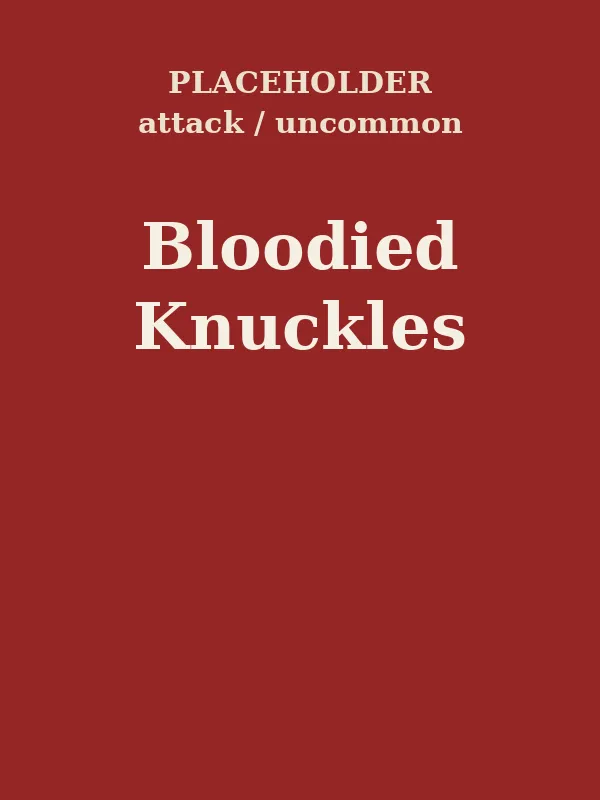
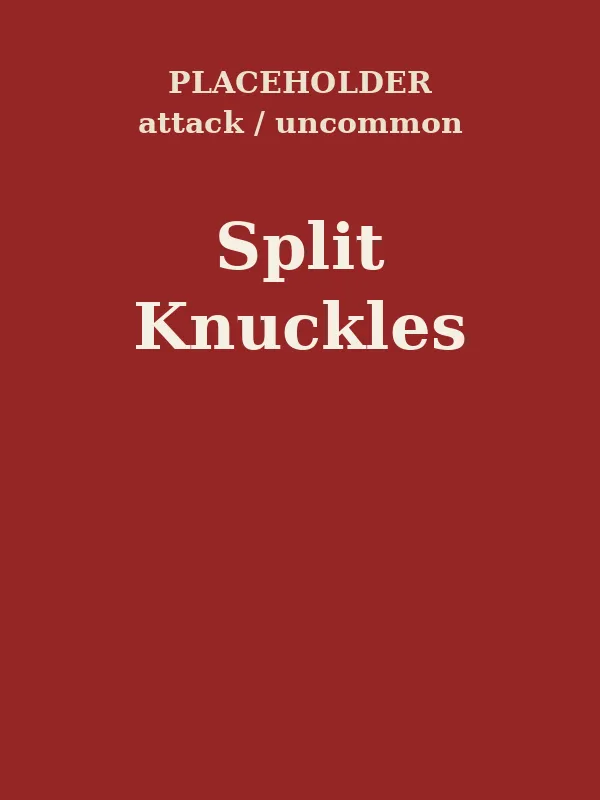
Burn It Down + Barbarian keyword cards, Producer 13:25 keyword rulings, Split Knuckles rename, How to Play tooltip checks fail loudly
- Producer 13:25 rulings in the engine (combos stay blocked in the data check, no card needs them yet): Replay on a Fading
  card at 1 plays both (second at 0) then Exhausts; Bloodied effects go with every Repeat and Replay play, HP checked once
  when played; Last Word with Repeat X fires once
- Lorekeeper 13:25: bloodied_knuckles shows as 'Split Knuckles' (id kept, placeholder redrawn); Blood in the Mouth when
  Bloodied is one 14-damage hit (Bloodied addTo joins the hit, Might counts once), text unchanged
- Burn It Down (keyword_use_v2 part 2): Burn Through, Kindling (Power: Exhaust -> 1 Rage), What's Left (one hit of 3 per
  card Exhausted this fight), Ash-Caked Bracer (Barbarian-only relic: first Exhaust each turn draws 1; hero-only relic pools)
- Keyword cards (part 3): Worn Grip (Fading), Ember Hide (Exhaust + Last Word), Blood in the Mouth, Last One Standing (Bloodied)
- engine: exhaustCard counts p.fightExhausted, fires Kindling, Bracer, Last Word; damagePerExhausted; damageRandom (random
  targetable enemy, for Parting Shot's Last Word)
- placeholders for the 7 new cards (tools/make_placeholders.py now takes card ids and leaves other files alone)
- test/keywords.js 225 -> 947 checks; How to Play tooltip checks FAIL if lore/text/how_to_play_v1.md is missing
- NOT BUILT (needs fighter-styles-r2 / wz9 on main first): The Long Wait, First Strike, Parting Shot, Echo Chamber, Guttering Candle
[…]

Changed region(s): [[0.24, 0.25, 0.78, 0.375]]

diff --git a/test/keywords.js b/test/keywords.js
@@ -148,7 +148,8 @@ const TIPS = {   // lore/text/how_to_play_v1.md section 3 (Lorekeeper), word for
 };
 for (const k in TIPS) eq(D.KEYWORDS[k], TIPS[k], k + ' tooltip wording');
 { const htp = path.join(__dirname, '../lore/text/how_to_play_v1.md');
-  if (fs.existsSync(htp)) { const t = fs.readFileSync(htp, 'utf8');
+  ok(fs.existsSync(htp), 'lore/text/how_to_play_v1.md is present (untracked, Lorekeeper owns lore/; copy lore/ into a scratch checkout before npm test)');
+  { const t = fs.readFileSync(htp, 'utf8');
     for (const k in TIPS) { const m = t.match(new RegExp('^- \\*\\*' + (k === 'Repeat' ? 'Repeat X' : k) + ':\\*\\* (.*)$', 'm')); ok(m && TIPS[k] === (k === 'Repeat' ? 'Repeat X' : k) + ': ' + m[1], k + ' tooltip matches how_to_play_v1.md'); } } }
 
 // ======== Fading, Last Word, Bloodied (Anna 11:54/12:19; how_to_play_v1 section 3; keyword_use_v2 part 3; Producer 11:56) ========
@@ -233,7 +234,95 @@ const TIPS2 = { Fading: "Fading: each time you play it this fight, its numbers d
   'Last Word': 'Last Word: when this card Exhausts or Vanishes, its Last Word line happens.', Bloodied: "Bloodied: the Bloodied line only counts while you're at half your HP or less." };
 for (const k in TIPS2) eq(D.KEYWORDS[k], TIPS2[k], k + ' tooltip wording');
 { const htp = path.join(__dirname, '../lore/text/how_to_play_v1.md');
-  if (fs.existsSync(htp)) { const t = fs.readFileSync(htp, 'utf8'); for (const k in TIPS2) { const m = t.match(new RegExp('^- \\*\\*' + k + ':\\*\\* (.*)$', 'm')); ok(m && TIPS2[k] === k + ': ' + m[1], k + ' tooltip matches how_to_play_v1.md'); } } }
+  ok(fs.existsSync(htp), 'lore/text/how_to_play_v1.md is present (untracked, Lorekeeper owns lore/)');
+  { const t = fs.readFileSync(htp, 'utf8'); for (const k in TIPS2) { const m = t.match(new RegExp('^- \\*\\*' + k + ':\\*\\* (.*)$', 'm')); ok(m && TIPS2[k] === k + ': ' + m[1], k + ' tooltip matches how_to_play_v1.md'); } } }
+
+// ======== Producer 13:25 rulings (engine behaviour; the combos stay blocked in the data check until a card needs them) ========
+// These test-only defs are added AFTER every checkKeywordData(D.CARDS) call above, on purpose.
+Object.assign(D.CARDS, {
+  kwr_fade_replay: atk({ fading: true, replay: true, effects: [{ t: 'damage', n: 3 }] }),
+  kwr_blood_rep2: atk({ repeat: 2, bloodied: { desc: 'Deal {0} more.', effects: [{ t: 'damage', n: 5 }] } }),
+  kwr_blood_replay: atk({ replay: true, bloodied: { desc: 'Deal {0} more.', effects: [{ t: 'damage', n: 7, addTo: 0 }] } }),
+  kwr_blood_lose: blk({ replay: true, desc: 'Lose {0} HP. Gain {1} Block.', effects: [{ t: 'loseHp', n: 10 }, { t: 'block', n: 1 }], bloodied: { desc: 'Gain {0} Block.', effects: [{ t: 'block', n: 5 }] } }),
+  kwr_lw_rep3: blk({ exhaust: true, repeat: 3, desc: 'Gain {0} Block. Exhaust.', lastWord: { desc: 'Gain {0} Might.', effects: [might1] } }),
+});
+for (const id of ['kwr_fade_replay', 'kwr_blood_rep2', 'kwr_blood_replay', 'kwr_lw_rep3']) ok(throws(() => D.checkKeywordData({ [id]: D.CARDS[id] })), id + ' is still blocked in the data check (no card needs it yet)');
+// (1) Replay on a Fading card at 1: plays both (second at 0), then Exhausts
+{ const { s, p } = fresh(), e = s.enemies[0], c = give(p, 'kwr_fade_replay'); c.fightPlays = 2; const h = e.hp; const { ev } = play(s, p, c, e);
+  eq(h - e.hp, 1 + 0, 'Fading at 1 + Replay: 1 damage, then a second play at 0'); eq(ev.filter(x => x.kind === 'cardReplayed').length, 1, 'the Replay still happens at 0');
+  eq(where(p, c), ['exhaust'], 'then it Exhausts'); eq(c.fightPlays, 4, 'two plays counted'); }
+{ const { s, p } = fresh(), e = s.enemies[0], c = give(p, 'kwr_fade_replay'); p.statuses.might = 2; c.fightPlays = 2; const h = e.hp; play(s, p, c, e);
+  eq(h - e.hp, (1 + 2) + (0 + 2), 'the Replay at 0 still adds Might (a real play)'); }
+{ const { s, p } = fresh(), e = s.enemies[0], c = give(p, 'kwr_fade_replay'); const h = e.hp; play(s, p, c, e); eq(h - e.hp, 3 + 2, 'Fading 3 + Replay: 3 then 2 (drops by 2)'); eq(where(p, c), ['discard'], 'still above 0: discarded'); }
+// (2) Bloodied effects go with every Repeat and Replay play; HP checked once when played
+{ const { s, p } = fresh(), e = s.enemies[0]; p.hp = Math.floor(p.maxHp / 2); const c = give(p, 'kwr_blood_rep2'), h = e.hp; const { ev } = play(s, p, c, e);
+  eq(h - e.hp, (4 + 5) * 2, 'Bloodied + Repeat 2: the Bloodied hit goes with both repeats'); eq(ev.filter(x => x.kind === 'bloodied').length, 1, 'one Bloodied check'); }
+{ const { s, p } = fresh(), e = s.enemies[0]; p.hp = Math.floor(p.maxHp / 2); p.statuses.might = 1; const c = give(p, 'kwr_blood_replay'); play(s, p, c, e);
+  eq(e.maxHp - e.hp, (4 + 7 + 1) * 2, 'Bloodied (addTo) + Replay: one 11+Might hit on each play'); }
+{ const { s, p } = fresh(); p.maxHp = 80; p.hp = 45; const c = give(p, 'kwr_blood_lose'); play(s, p, c, null); eq([p.hp, p.block], [25, 2], 'not Bloodied when played: the Replay does not re-check after the first play took HP'); }
+{ const { s, p } = fresh(); p.maxHp = 80; p.hp = 38; const c = give(p, 'kwr_blood_lose'); play(s, p, c, null); eq(p.block, (1 + 5) * 2, 'Bloodied when played: the extra Block goes with both plays'); }
+{ const { s, p } = fresh(), e = s.enemies[0]; p.hp = p.maxHp; const c = give(p, 'kwr_blood_rep2'), h = e.hp; play(s, p, c, e); eq(h - e.hp, 4 * 2, 'not Bloodied: Repeat only'); }
+// (3) Last Word with Repeat X fires once
+{ const { s, p } = fresh(), c = give(p, 'kwr_lw_rep3'); const { ev } = play(s, p, c, null); eq([p.block, p.statuses.might], [15, 1], 'Repeat 3 Block, Last Word once'); eq(ev.filter(x => x.kind === 'lastWord').length, 1, 'one lastWord event'); }
+
+// ======== Lorekeeper 13:25 + Burn It Down + new keyword cards (Barbarian) ========
+eq(D.CARDS.bloodied_knuckles.name, 'Split Knuckles', 'Bloodied Knuckles is shown as Split Knuckles (id unchanged)');
+ok(!Object.values(D.CARDS).some(c => /\bBloodied\b/.test(c.name)), 'no card name uses the Bloodied keyword word');
+const NEW = ['burn_through', 'kindling', 'whats_left', 'worn_grip', 'ember_hide', 'blood_in_mouth', 'last_one_standing'];
+for (const id of NEW) { const c = D.CARDS[id]; ok(c && c.cls === 'barbarian', id + ' is a Barbarian card'); ok(fs.existsSync(path.join(__dirname, '../assets/placeholder/placeholder_' + id + '.webp')), id + ' has placeholder art');
+  ok(fs.readFileSync(path.join(__dirname, '../assets/placeholder/PLACEHOLDERS.md'), 'utf8').includes('`placeholder_' + id + '.webp`'), id + ' is listed in PLACEHOLDERS.md'); }
+eq(NEW.map(id => [D.CARDS[id].cost, D.CARDS[id].rarity, D.typeWord(D.CARDS[id], id)]), [[1, 'common', 'Defense'], [1, 'uncommon', 'Power'], [2, 'uncommon', 'Attack'], [1, 'common', 'Attack'], [1, 'common', 'Defense'], [1, 'common', 'Attack'], [1, 'uncommon', 'Buff']], 'costs, rarities and type words as in keyword_use_v2');
+// Blood in the Mouth: Bloodied = ONE 14-damage hit, Might counts once
+{ const { s, p } = fresh(), e = s.enemies[0]; p.hp = Math.floor(p.maxHp / 2); p.statuses.might = 3; const c = give(p, 'blood_in_mouth'); const { ev } = play(s, p, c, e);
+  eq(e.maxHp - e.hp, 14 + 3, 'Bloodied Blood in the Mouth: 14 + Might once'); eq(ev.filter(x => x.kind === 'hit').map(x => x.amount), [17], 'ONE hit of 17'); }
+{ const { s, p } = fresh(), e = s.enemies[0]; e.statuses.prone = 2; p.hp = 10; const c = give(p, 'blood_in_mouth'); play(s, p, c, e); eq(e.maxHp - e.hp, Math.floor(14 * 1.5), 'one hit: Prone applies to 14 once (21)'); }
+{ const { s, p } = fresh(), e = s.enemies[0]; const c = give(p, 'blood_in_mouth'); play(s, p, c, e); eq(e.maxHp - e.hp, 7, 'not Bloodied: 7'); }
+{ const { s, p } = fresh(), e = s.enemies[0]; p.hp = 10; const c = give(p, 'blood_in_mouth', true); play(s, p, c, e); eq(e.maxHp - e.hp, 10 + 7, 'upgraded: 10 + 7 in one hit'); }
+eq([E.cardText(null, null, { id: 'blood_in_mouth' }), E.cardLines(null, null, { id: 'blood_in_mouth' }).bloodied], ['Deal 7 damage.', 'Deal 7 more.'], "card text stays 'Deal 7 damage.' / 'Bloodied: Deal 7 more.'");
+{ const { s, p } = fresh(), e = s.enemies[0]; p.statuses.might = 2; eq(E.cardLines(s, p, { id: 'blood_in_mouth', uid: 'b' }, e.uid).bloodied, 'Deal 7 more.', 'the Bloodied 7 is not shown with Might added (Might counts once)'); }
+// Last One Standing
+{ const { s, p } = fresh(); p.hp = 10; const before = p.hand.length; const c = give(p, 'last_one_standing'); play(s, p, c, null); eq([p.statuses.might, p.hand.length], [4, before + 1], 'Bloodied Last One Standing: 4 Might, draw 1'); }
+{ const { s, p } = fresh(); const c = give(p, 'last_one_standing'); play(s, p, c, null); eq(p.statuses.might, 2, 'not Bloodied: 2 Might'); }
+// Worn Grip: 8, 7, 6 ... then Exhausts at 0
+{ const { s, p } = fresh(), e = s.enemies[0], c = give(p, 'worn_grip'), hits = []; for (let i = 0; i < 8; i++) { if (i) p.hand.push(p.discard.splice(p.discard.indexOf(c), 1)[0]); const h = e.hp; play(s, p, c, e); hits.push(h - e.hp); }
+  eq(hits, [8, 7, 6, 5, 4, 3, 2, 1], 'Worn Grip fades 8..1'); eq(where(p, c), ['exhaust'], 'then Exhausts'); }
+// Ember Hide, Burn Through
+{ const { s, p } = fresh(), c = give(p, 'ember_hide'); play(s, p, c, null); eq([p.block, p.statuses.rage, where(p, c)[0]], [5, 2, 'exhaust'], 'Ember Hide: 5 Block, Exhaust, Last Word 2 Rage'); }
+{ const { s, p } = fresh(), c = give(p, 'burn_through'); play(s, p, c, null); eq([p.block, where(p, c)[0], p.fightExhausted], [6, 'exhaust', 1], 'Burn Through: 6 Block, Exhaust, counted'); }
+// Kindling: every Exhaust gives 1 Rage per copy; not on Vanish; Fading-out and Last Word cards count
+{ const { s, p } = fresh(), k = give(p, 'kindling'); play(s, p, k, null); ok(p.powers.includes(k), 'Kindling stays in play');
+  play(s, p, give(p, 'burn_through'), null); eq(p.statuses.rage, 1, 'Kindling: an Exhaust gives 1 Rage');
+  play(s, p, give(p, 'ember_hide'), null); eq(p.statuses.rage, 1 + 1 + 2, 'Kindling + Ember Hide Last Word: 1 + 2 Rage');
+  const w = give(p, 'worn_grip'); w.fightPlays = 7; play(s, p, w, s.enemies[0]); eq(p.statuses.rage, 5, 'a Fading card at 0 Exhausts and triggers Kindling');
+  play(s, p, give(p, 'kindling'), null); play(s, p, give(p, 'burn_through'), null); eq(p.statuses.rage, 7, 'two Kindlings: 2 Rage per Exhaust');
+  const r0 = p.statuses.rage; give(p, 'kw_van'); E.dispatch(s, { type: 'END_TURN', player: p.uid }); E.takeEvents(s); ok(p.exhaust.some(x => x.id === 'kw_van'), 'a card vanished');
+  ok((p.statuses.rage || 0) <= r0, 'Vanish is not an Exhaust: no Kindling Rage'); eq(p.fightExhausted, 4, 'Vanish not counted as Exhausted'); }
+{ const { s, p } = fresh(); play(s, p, give(p, 'burn_through'), null); eq(p.statuses.rage || 0, 0, 'no Kindling, no Rage'); }
+// What's Left: one hit of 3 per card Exhausted this fight
+{ const { s, p } = fresh(), e = s.enemies[0]; let h = e.hp; play(s, p, give(p, 'whats_left'), e); eq(h - e.hp, 0, "What's Left with nothing Exhausted: 0");
+  for (let i = 0; i < 3; i++) play(s, p, give(p, 'burn_through'), null); p.statuses.might = 2; h = e.hp; play(s, p, give(p, 'whats_left'), e); eq(h - e.hp, 9 + 2, "What's Left after 3 Exhausts: one 9 hit + Might once");
+  E.startEncounter(s, 'lone_goblin'); E.takeEvents(s); eq(p.fightExhausted, 0, 'the count resets each fight'); }
+{ const { s, p } = fresh(), e = s.enemies[0]; play(s, p, give(p, 'burn_through'), null); const h = e.hp; play(s, p, give(p, 'whats_left', true), e); eq([h - e.hp, E.cardDef({ id: 'whats_left', up: true }).cost], [3, 1], "What's Left+: costs 1 (normal upgrade)"); }
+{ const { s, p } = fresh(); play(s, p, give(p, 'burn_through'), null); play(s, p, give(p, 'burn_through'), null); const s2 = JSON.parse(JSON.stringify(s)); eq(s2.players[0].fightExhausted, 2, 'Exhausted count survives a save'); }
+// Ash-Caked Bracer: first Exhaust each turn draws 1; Barbarian-only in every relic pool
+{ const { s, p } = fresh(); p.relics.push('ash_bracer'); p.draw.push({ uid: 'd1', id: 'strike' }, { uid: 'd2', id: 'strike' }, { uid: 'd3', id: 'strike' }); const n0 = p.hand.length;
+  play(s, p, give(p, 'burn_through'), null); eq(p.hand.length, n0 + 1 - 0, 'Bracer: first Exhaust draws 1'); play(s, p, give(p, 'burn_through'), null); eq(p.hand.length, n0 + 1, 'second Exhaust this turn draws nothing');
+  E.dispatch(s, { type: 'END_TURN', player: p.uid }); E.takeEvents(s); if (s.phase === 'combat') { p.energy = 99; const n1 = p.hand.length; play(s, p, give(p, 'burn_through'), null); eq(p.hand.length, n1 + 1, 'next turn the first Exhaust draws again'); } }
+eq(D.RELICS.ash_bracer.cls, 'barbarian', 'Ash-Caked Bracer is Barbarian-only');
+{ const pools = {}; for (const hero of Object.keys(D.HEROES)) { pools[hero] = 0;
+    for (let seed = 1; seed <= 200; seed++) { const s = E.newGame({ seed, heroes: [hero] }), p = s.players[0]; p.gold = 999; const f = findChoice(o => o.shop); runEvent(s, f); if (s.phase === 'event') E.dispatch(s, { type: 'EVENT_CONTINUE', player: p.uid }); if (s.shop.relics.some(x => x.id === 'ash_bracer')) pools[hero]++; } }
+  ok(pools.barbarian > 0, 'the Barbarian shop offers the Bracer sometimes (' + pools.barbarian + '/200)'); ok(pools.fighter === 0 && pools.wizard === 0, 'Fighter and Wizard shops never offer it ' + JSON.stringify(pools)); }
+{ const got = {}; for (const hero of Object.keys(D.HEROES)) { got[hero] = 0; for (let seed = 1; seed <= 200; seed++) { const s = E.newGame({ seed, heroes: [hero] }), p = s.players[0];
+    p.relics = Object.keys(D.RELICS).filter(r => r !== 'ash_bracer' && !D.RELICS[r].special && r !== Object.keys(D.RELICS).filter(x => !D.RELICS[x].special && !D.RELICS[x].cls)[seed % 3]);
+    E.startEncounter(s, 'lone_goblin'); E.takeEvents(s); s.node = 'elite'; s.enemies.forEach(e => { e.hp = 0; }); E.dispatch(s, { type: 'END_TURN', player: p.uid }); E.takeEvents(s); if (p.relics.includes('ash_bracer')) got[hero]++; } }
+  ok(got.barbarian > 0 && got.fighter === 0 && got.wizard === 0, 'elite relic rewards: Bracer only for the Barbarian ' + JSON.stringify(got)); }
+// damageRandom (for Parting Shot's Last Word): one hit on a random targetable enemy, no target on the card
+Object.assign(D.CARDS, { kwr_parting: blk({ cls: 'fighter', vanish: true, desc: 'Gain {0} Block.', effects: [{ t: 'block', n: 3 }], lastWord: { desc: 'Deal {0} damage to a random enemy.', effects: [{ t: 'damageRandom', n: 8 }] } }) });
+ok(D.checkKeywordData({ kwr_parting: D.CARDS.kwr_parting }) === true, 'a Last Word with damageRandom passes the data check');
+{ const tally = {}; for (let seed = 1; seed <= 40; seed++) { const { s, p } = fight('goblin_pack', seed); p.hp = p.maxHp; give(p, 'kwr_parting'); const hp0 = s.enemies.map(e => e.hp); E.dispatch(s, { type: 'END_TURN', player: p.uid }); E.takeEvents(s);
+    const hit = s.enemies.map((e, i) => hp0[i] - e.hp); const k = hit.findIndex(x => x >= 8); ok(hit.filter(x => x >= 8).length === 1 || s.phase !== 'combat', 'exactly one enemy takes the 8 (seed ' + seed + ')'); tally[k] = (tally[k] || 0) + 1; }
+  ok(Object.keys(tally).length >= 2, 'the target is random across seeds ' + JSON.stringify(tally)); }
+{ const { s, p } = fresh(); p.statuses.might = 2; eq(E.cardLines(s, p, { id: 'kwr_parting', uid: 'pp' }).lastWord, 'Deal «+10» damage to a random enemy.', 'damageRandom line shows live Might'); }
 
 // ---- page: keyword lines with tooltips on the card face, removal grids skip Eternal ----
 (async () => {

diff --git a/src/engine.js b/src/engine.js
@@ -114,6 +114,8 @@
   function emit(s, ev) { s.events.push(ev); }
   function log(s, msg) { s.log.push(msg); if (s.log.length > 60) s.log.shift(); }
   const hasRelic = (p, id) => p.relics.includes(id);
+  // Random relic pools (rewards, events, shop): no special relics, and a hero-only relic (cls) only for its hero.
+  const relicInPool = (p, r) => !D.RELICS[r].special && (!D.RELICS[r].cls || (p && D.RELICS[r].cls === p.heroId));
 
   // ---------- creation ----------
   function makePlayer(s, heroId, name) {
@@ -318,7 +320,7 @@
     if (o.maxHp) { sh.maxHp += o.maxHp; sh.hp += o.maxHp; add((o.maxHp > 0 ? '+' : '') + o.maxHp + ' max HP', o.maxHp < 0); }
     if (o.healPct) { const a = Math.max(0, Math.min(Math.round(sh.maxHp * o.healPct), sh.maxHp - sh.hp)); sh.hp += a; add('Heal ' + pctStr(o.healPct) + ' of max HP (+' + a + ' now)'); }
     if (o.relic) {
-      const left = Object.keys(D.RELICS).filter(r => !hasRelic(p, r) && !D.RELICS[r].special).length;
+      const left = Object.keys(D.RELICS).filter(r => !hasRelic(p, r) && relicInPool(p, r)).length;
       if (o.relic !== 'random' && !hasRelic(p, o.relic)) add('Relic: ' + D.RELICS[o.relic].name);
       else if (left) add('Random relic (1 of ' + left + (o.relic !== 'random' ? ', you already own ' + D.RELICS[o.relic].name : '') + ')');
       else add('+40 gold (no relics left)');
@@ -410,7 +412,7 @@
     }
     const relics = [];
     for (let i = 0; i < 3; i++) {
-      const left = Object.keys(D.RELICS).filter(r => !D.RELICS[r].special && !hasRelic(p, r) && !relics.some(x => x.id === r));
+      const left = Object.keys(D.RELICS).filter(r => relicInPool(p, r) && !hasRelic(p, r) && !relics.some(x => x.id === r));
       if (left.length) relics.push({ id: pick(s, left), price: price(P.relic), sold: false });
     }
     const potions = [];
@@ -462,7 +464,7 @@
 
   // ---------- relics ----------
   function randomRelic(s, p) {
-    const left = Object.keys(D.RELICS).filter(r => !hasRelic(p, r) && !D.RELICS[r].special);
+    const left = Object.keys(D.RELICS).filter(r => !hasRelic(p, r) && relicInPool(p, r));
     return left.length ? pick(s, left) : null;
   }
   function gainRelic(s, p, id) {
@@ -484,7 +486,7 @@
     s.enemies = enc.enemies.map(id => makeEnemy(s, id));
     for (const p of livingPlayers(s)) {
       p.draw = shuffle(s, p.deck.map(c => ({ ...c })));
-      p.hand = []; p.discard = []; p.exhaust = []; p.powers = []; p.block = 0; p.statuses = {}; p.fresh = {}; p.reward = null; p.turnFx = {}; p.enemyTurnFx = {};
+      p.hand = []; p.discard = []; p.exhaust = []; p.powers = []; p.fightExhausted = 0; p.block = 0; p.statuses = {}; p.fresh = {}; p.reward = null; p.turnFx = {}; p.enemyTurnFx = {};
     }
     log(s, `— ${enc.name} —`);
     emit(s, { kind: 'encounter', name: enc.name });
@@ -827,6 +829,10 @@
         case 'damageAll': for (let i = 0; i < times; i++) livingEnemies(s).forEach(e => dealDamage(s, e, attackDamage(p, e, attackBase(p, fx)), p, true)); break;
         case 'damageAllRaw': livingEnemies(s).forEach(e => dealDamage(s, e, fx.n, null, false)); break;
         case 'damageFromBlock': if (alive(tgt)) dealDamage(s, tgt, attackDamage(p, tgt, p.block), p, true); break;
+        // What's Left: one hit of n for each card Exhausted this fight ("X times" is the multi-hit wording, Producer 11:35)
+        case 'damagePerExhausted': if (alive(tgt)) dealDamage(s, tgt, attackDamage(p, tgt, attackBase(p, { ...fx, n: fx.n * (p.fightExhausted || 0) })), p, true); break;
+        // Parting Shot's Last Word: one attack hit on a random enemy that can be targeted (no target needed on the card)
+        case 'damageRandom': for (let i = 0; i < times; i++) { const l = targetableEnemies(s); if (!l.length) break; const e = pick(s, l); dealDamage(s, e, attackDamage(p, e, attackBase(p, fx)), p, true); } break;
         case 'block': gainBlock(s, p, fx.n); blockSoFar += fx.n; break;
         case 'heal': heal(s, p, fx.n); break;
         case 'maxHp': p.maxHp += fx.n; heal(s, p, fx.n); break;
@@ -872,7 +878,8 @@
     // Replay = a second play (Fading hook: notePlay runs once per play); Repeat X = the effect X times inside ONE play.
     // Replay on an Exhaust/Vanish card plays both times, then the card leaves once (Producer 11:34).
     const plays = playsOf(def), reps = repeatOf(def);
-    const bloodied = !!def.bloodied && isBloodied(p);   // checked when the card is played (before its effects)
+    const bloodied = !!def.bloodied && isBloodied(p);   // checked ONCE, when the card is played (before its effects)
+    if (bloodied) emit(s, { kind: 'bloodied', source: p.uid, card: c.id });
     for (let k = 0; k < plays; k++) {
       if (k > 0) {
         if (!alive(p) || !livingEnemies(s).length) break;
@@ -880,8 +887,10 @@
         emit(s, { kind: 'cardReplayed', source: p.uid, card: c.id, target: tgt && tgt.uid });
         log(s, `${def.name} plays again (Replay).`);
       }
-      for (let r = 0; r < reps; r++) runEffects(s, p, fadeFx(def, c, def.effects), tgt, c);   // Fading: this play uses the number left
-      if (bloodied) { emit(s, { kind: 'bloodied', source: p.uid, card: c.id }); runEffects(s, p, def.bloodied.effects, tgt, c); }
+      // Fading: this play uses the number left (a Replay at 1 plays its second time at 0, then Exhausts; Producer 13:25).
+      // Bloodied effects go with every Repeat and Replay play (Producer 13:25); one with addTo joins that effect's hit
+      // instead of adding a hit (Blood in the Mouth: one 14-damage hit, Might counts once; Lorekeeper 13:25).
+      for (let r = 0; r < reps; r++) runEffects(s, p, withBloodied(def, fadeFx(def, c, def.effects), bloodied), tgt, c);
       notePlay(s, p, c);
     }
     const fadedOut = !!def.fading && fadeLeft(def, c) <= 0;
@@ -902,8 +911,24 @@
     return { ok: true };
   }
 
-  // Every Exhaust goes through here, so a Last Word always fires (Exhaust keyword, a Fading card at 0, a shoved status card).
-  function exhaustCard(s, p, c) { p.exhaust.push(c); lastWord(s, p, c); }
+  function withBloodied(def, effects, on) {
+    if (!on) return effects;
+    const fx = effects.map(f => ({ ...f })), extra = [];
+    for (const b of def.bloodied.effects) { if (b.addTo != null && fx[b.addTo]) fx[b.addTo].n = (fx[b.addTo].n || 0) + b.n; else extra.push(b); }
+    return fx.concat(extra);
+  }
+  // Every Exhaust goes through here (Exhaust keyword, a Fading card at 0, a shoved status card): it counts for What's Left,
+  // triggers Kindling (each copy in play) and the Ash-Caked Bracer (first Exhaust each turn), then the card's Last Word.
+  // A Vanish is not an Exhaust (Anna 11:33), so none of these fire on it except Last Word.
+  function exhaustCard(s, p, c) {
+    p.exhaust.push(c); p.fightExhausted = (p.fightExhausted || 0) + 1;
+    if (s.phase === 'combat' && alive(p)) {
+      for (const pc of p.powers || []) { const d = cardDef(pc); if (d.power && d.power.onExhaust && alive(p)) { emit(s, { kind: 'powerTrigger', source: p.uid, card: pc.id }); runEffects(s, p, d.power.onExhaust, null, null); } }
+      p.turnFx = p.turnFx || {};
+      for (const r of p.relics) { const R = D.RELICS[r]; if (R.hook === 'firstExhaustEachTurn' && !p.turnFx['exh_' + r] && alive(p)) { p.turnFx['exh_' + r] = true; emit(s, { kind: 'relic', target: p.uid, relic: r }); runEffects(s, p, R.effects, null, null); } }
+    }
+    lastWord(s, p, c);
+  }
   // Last Word (how_to_play_v1): when this card Exhausts or Vanishes, its Last Word line happens (once, with no target).
   function lastWord(s, p, c) {
     const def = cardDef(c);
@@ -934,7 +959,7 @@
     const vals = effects.map((fx, i) => {
       let v = fx.n || 0, printed = (printedFx[i] && printedFx[i].n) || 0;
       if (fx.t === 'block') blockSoFar += fx.n;
-      if (fx.t === 'damage' || fx.t === 'damageAll') {
+      if ((fx.t === 'damage' || fx.t === 'damageAll' || fx.t === 'damageRandom') && fx.addTo == null) {
         v = inCombat ? attackDamage(p, tgt, attackBase(p, fx)) : attackBase({ statuses: {} }, fx);
       } else if (fx.t === 'damageFromBlock') {
         v = inCombat ? attackDamage(p, tgt, p.block + blockSoFar) : blockSoFar; printed = v;

diff --git a/src/content.js b/src/content.js
@@ -56,6 +56,8 @@
     smiling_mask:     { name: 'Mask of the Smiling Merchant', hook: 'passive', effects: [], desc: 'Shop prices are 20% lower.' },
     illithid_tadpole: { name: 'The Worm Behind the Eye', hook: 'combatStart', special: true, effects: [{ t: 'status', status: 'arcane', n: 2, to: 'self' }], desc: 'Start each fight with 2 Arcane (+2 damage per hit). It whispers to you…' },
     tymora_coin:      { name: "Brennick's Penny", hook: 'combatStart', special: true, effects: [{ t: 'draw', n: 1 }, { t: 'block', n: 4 }], desc: 'At the start of each fight, draw 1 card and gain 4 Block.' },
+    // Burn It Down relic (keyword_use_v2 part 2), Barbarian only (Producer 11:41): never offered to another hero (relicInPool).
+    ash_bracer:       { name: 'Ash-Caked Bracer', cls: 'barbarian', hook: 'firstExhaustEachTurn', effects: [{ t: 'draw', n: 1 }], desc: 'The first time a card Exhausts each turn, draw 1 card.' },
     wyrm_scale:       { name: 'Red Wyrmling Scale', hook: 'combatStart', special: true, effects: [{ t: 'status', status: 'armor', n: 2, to: 'self' }, { t: 'status', status: 'thorns', n: 1, to: 'self' }], desc: 'Start each fight with 2 Armor and 1 Retaliate.' },
   });
 
@@ -331,7 +333,7 @@
 (function (G) {
   G.FRAME_OVERRIDE = {
     // Powers whose effect is a hook (no effect list to read the frame from): Barbarian deck styles B1-B3
-    blood_up: 'buff', last_tally: 'buff', scar_tissue: 'defense' };
+    blood_up: 'buff', last_tally: 'buff', scar_tissue: 'defense', kindling: 'buff' };
   G.FRAME_COLORS = { attack: 'red', defense: 'blue', buff: 'green', debuff: 'purple', utility: 'gold', curse: 'black', status: 'grey' };
   G.frameOf = function (def, id) {
     if (G.FRAME_OVERRIDE[id]) return G.FRAME_OVERRIDE[id];
@@ -385,12 +387,14 @@
         // Last Word only fires when the card Exhausts or Vanishes (Fading at 0 Exhausts); it runs with no target.
         if (k('lastWord')) {
           if (!(k('exhaust') || k('vanish') || k('fading'))) bad.push(id + ': Last Word needs Exhaust, Vanish or Fading');
-          if (k('lastWord').effects.some(f => ['damage', 'damageFromBlock', 'goad'].includes(f.t) || (f.t === 'status' && f.to === 'target'))) bad.push(id + ': a Last Word effect cannot need a single target');
+          if (k('lastWord').effects.some(f => ['damage', 'damageFromBlock', 'damagePerExhausted', 'goad'].includes(f.t) || (f.t === 'status' && f.to === 'target'))) bad.push(id + ': a Last Word effect cannot need a single target (use damageRandom)');
+          if (k('lastWord').effects.some(f => f.addTo != null)) bad.push(id + ': addTo is for Bloodied lines only');
           if (k('repeat')) bad.push(id + ': Last Word with Repeat is not defined yet');
         }
         if (k('bloodied')) {
           if (k('repeat') || k('replay')) bad.push(id + ': Bloodied with Repeat or Replay is not defined yet');
-          if (k('bloodied').effects.some(f => ['damage', 'damageFromBlock', 'goad'].includes(f.t) || (f.t === 'status' && f.to === 'target')) && (d.target || c.target) !== 'enemy') bad.push(id + ': a targeted Bloodied effect needs a targeted card');
+          if (k('bloodied').effects.some(f => ['damage', 'damageFromBlock', 'damagePerExhausted', 'goad'].includes(f.t) || (f.t === 'status' && f.to === 'target')) && (d.target || c.target) !== 'enemy') bad.push(id + ': a targeted Bloodied effect needs a targeted card');
+          for (const f of k('bloodied').effects) if (f.addTo != null && !(effects[f.addTo] && effects[f.addTo].t === f.t && typeof f.n === 'number')) bad.push(id + ': Bloodied addTo ' + f.addTo + ' must point at a ' + f.t + ' effect');
         }
         // Fading: "Fading cards have only one number" (keyword_use_v2 part 3), and it must be a playable, non-Power card.
         if (k('fading')) {

diff --git a/src/data.js b/src/data.js
@@ -165,7 +165,7 @@
       desc: "Deal {0} damage. Gain {1} Rage. If the enemy isn't planning to attack, it switches to an attack.",
       effects: [{ t: 'damage', n: 4 }, { t: 'status', status: 'rage', n: 1, to: 'self' }, { t: 'goad' }],
       upgrade: { cost: 0 } },
-    bloodied_knuckles: { cls: 'barbarian', name: 'Bloodied Knuckles', cost: 1, type: 'attack', rarity: 'uncommon', target: 'enemy', rageAttack: true,
+    bloodied_knuckles: { cls: 'barbarian', name: 'Split Knuckles', cost: 1, type: 'attack', rarity: 'uncommon', target: 'enemy', rageAttack: true,
       desc: "Deal {0} damage twice. Gain 1 Rage for each hit that isn't fully Blocked.",
       effects: [{ t: 'damage', n: 3, times: 2, ragePerUnblocked: 1 }],
       upgrade: { effects: [{ t: 'damage', n: 4, times: 2, ragePerUnblocked: 1 }] } },
@@ -194,6 +194,27 @@
       effects: [{ t: 'status', status: 'armor', n: 3, to: 'self' }, { t: 'status', status: 'thorns', n: 3, to: 'self' }],
       power: { onHpLossEnemyTurn: { rage: 1 } },
       upgrade: { effects: [{ t: 'status', status: 'armor', n: 4, to: 'self' }, { t: 'status', status: 'thorns', n: 4, to: 'self' }] } },
+    // Burn It Down (Exhaust deck style, keyword_use_v2 part 2; Anna 11:54 "build everything"). Lorekeeper wrote no Upgraded
+    // lines for these, so they use the normal rest-site upgrade (upgradeDef) until she does.
+    burn_through: { cls: 'barbarian', name: 'Burn Through', cost: 1, type: 'skill', rarity: 'common', target: 'none', exhaust: true,
+      desc: 'Gain {0} Block. Exhaust.', effects: [{ t: 'block', n: 6 }] },
+    kindling: { cls: 'barbarian', name: 'Kindling', cost: 1, type: 'power', rarity: 'uncommon', target: 'none',
+      desc: 'Whenever a card Exhausts, gain 1 Rage.', effects: [], power: { onExhaust: [{ t: 'status', status: 'rage', n: 1, to: 'self' }] } },
+    whats_left: { cls: 'barbarian', name: "What's Left", cost: 2, type: 'attack', rarity: 'uncommon', target: 'enemy',
+      desc: 'Deal {0} damage for each card Exhausted this fight.', effects: [{ t: 'damagePerExhausted', n: 3 }] },
+    // New keyword cards (keyword_use_v2 part 3): Fading, Last Word, Bloodied.
+    worn_grip: { cls: 'barbarian', name: 'Worn Grip', cost: 1, type: 'attack', rarity: 'common', target: 'enemy', fading: true,
+      desc: 'Deal {0} damage.', effects: [{ t: 'damage', n: 8 }] },
+    ember_hide: { cls: 'barbarian', name: 'Ember Hide', cost: 1, type: 'skill', rarity: 'common', target: 'none', exhaust: true,
+      desc: 'Gain {0} Block. Exhaust.', effects: [{ t: 'block', n: 5 }],
+      lastWord: { desc: 'Gain {0} Rage.', effects: [{ t: 'status', status: 'rage', n: 2, to: 'self' }] } },
+    // Blood in the Mouth when Bloodied is ONE 14-damage hit, Might counts once (Lorekeeper 13:25): addTo joins the first hit.
+    blood_in_mouth: { cls: 'barbarian', name: 'Blood in the Mouth', cost: 1, type: 'attack', rarity: 'common', target: 'enemy',
+      desc: 'Deal {0} damage.', effects: [{ t: 'damage', n: 7 }],
+      bloodied: { desc: 'Deal {0} more.', effects: [{ t: 'damage', n: 7, addTo: 0 }] } },
+    last_one_standing: { cls: 'barbarian', name: 'Last One Standing', cost: 1, type: 'skill', rarity: 'uncommon', target: 'none',
+      desc: 'Gain {0} Might.', effects: [{ t: 'status', status: 'might', n: 2, to: 'self' }],
+      bloodied: { desc: 'Gain {0} more Might and draw {1} card.', effects: [{ t: 'status', status: 'might', n: 2, to: 'self' }, { t: 'draw', n: 1 }] } },
 
     // ================= WIZARD =================
     fire_bolt: { cls: 'wizard', name: 'Fire Bolt', cost: 1, type: 'attack', rarity: 'starter', target: 'enemy',

diff --git a/test/powers.js b/test/powers.js
@@ -4,11 +4,11 @@ let n = 0; const ok = (c, m) => { n++; if (!c) { console.error('FAIL: ' + m); pr
 const ALL_POWERS = Object.keys(D.CARDS).filter(id => D.CARDS[id].type === 'power');
 // Barbarian deck styles B1-B3 (Nov 3) added blood_up, last_tally, scar_tissue, bear_beneath. The hook-only ones (no status
 // effect of their own) are covered in test/deckstyles.js; this file keeps checking every Power that applies a status.
-ok(ALL_POWERS.sort().join() === ['arcane_focus', 'arcane_study', 'battle_cry', 'bear_beneath', 'bear_totem', 'blood_up', 'defense_style', 'last_tally', 'mage_armor', 'mindless_rage', 'retaliation', 'scar_tissue'].sort().join(), 'power list: ' + ALL_POWERS.join());
-for (const id of ALL_POWERS) ok(!D.CARDS[id].exhaust && !/exhaust/i.test(D.CARDS[id].desc), id + ' has no Exhaust flag or wording');
+ok(ALL_POWERS.sort().join() === ['arcane_focus', 'arcane_study', 'battle_cry', 'bear_beneath', 'bear_totem', 'blood_up', 'defense_style', 'kindling', 'last_tally', 'mage_armor', 'mindless_rage', 'retaliation', 'scar_tissue'].sort().join(), 'power list: ' + ALL_POWERS.join());
+for (const id of ALL_POWERS) ok(!D.CARDS[id].exhaust && !/exhaust/i.test(D.CARDS[id].desc.replace(/Whenever a card Exhausts/g, '')), id + ' has no Exhaust flag or wording (a Kindling-style "Whenever a card Exhausts" trigger is allowed)');
 const POWERS = ALL_POWERS.filter(id => D.CARDS[id].effects.some(f => f.t === 'status'));
 ok(D.CARDS.arcane_focus.type === 'power' && D.CARDS.arcane_focus.cost === 0 && D.CARDS.arcane_focus.effects.map(f => f.t + (f.n)).join() === 'status1,draw1', 'Arcane Focus is a power with the same numbers');
-for (const id of POWERS) ok(!D.CARDS[id].exhaust && !/exhaust/i.test(D.CARDS[id].desc), id + ' has no Exhaust flag or wording');
+for (const id of POWERS) ok(!D.CARDS[id].exhaust && !/exhaust/i.test(D.CARDS[id].desc.replace(/Whenever a card Exhausts/g, '')), id + ' has no Exhaust flag or wording (a Kindling-style "Whenever a card Exhausts" trigger is allowed)');
 const piles = p => [p.hand, p.draw, p.discard, p.exhaust];
 for (const id of POWERS) for (const up of [false, true]) for (let seed = 1; seed <= 5; seed++) {
   const cls = D.CARDS[id].cls, s = E.newGame({ seed, heroes: [cls] }); const p = s.players[0];

diff --git a/src/icons.js b/src/icons.js
@@ -20,6 +20,7 @@
     bolt: 'M14 1L4 13.5h6.5L9 23l11-13.5h-6.8z',
     deck: 'M7 3h11a1 1 0 011 1v15a1 1 0 01-1 1H7a1 1 0 01-1-1V4a1 1 0 011-1zm-3 3v14a2 2 0 002 2h10v-1.6H6.2a.6.6 0 01-.6-.6V6zm6.5 4.5l2-3.5 2 3.5-2 3.5z',
     discard: 'M6 4h9l4 4v12H6zm2 2v12h9V9h-3V6zm1.5 7.5h3.8l-1.6-1.6 1-1 3.3 3.3-3.3 3.3-1-1 1.6-1.6H9.5z',
+    ash_bracer: 'M12 2c1 3.5 5 5.5 5 10.5a5 5 0 01-10 0c0-2.2 1.3-3.7 2.3-4.6.1 2 .9 3 1.8 3.1.3-3-.4-5.8.9-9zM5.5 21h13v1.6h-13z',
     exhaust: 'M12 2c1 3.5 5 5.5 5 10.5a5 5 0 01-10 0c0-2.2 1.3-3.7 2.3-4.6.1 2 .9 3 1.8 3.1.3-3-.4-5.8.9-9zM5.5 21h13v1.6h-13z',
     // --- statuses ---
     prone: 'M3 19h18v2H3zM5 17l3.5-6.5 4 1.5L15 8l2.6 1.5-3 5.5-4-1.5L7.6 18zM17.5 3a2.3 2.3 0 110 4.6 2.3 2.3 0 010-4.6z',

diff --git a/tools/make_placeholders.py b/tools/make_placeholders.py
@@ -3,8 +3,10 @@
 image in its frame colour with the card name, saved as assets/placeholder/placeholder_<id>.webp, and is listed in
 assets/placeholder/PLACEHOLDERS.md. Run from the repo root: python3 tools/make_placeholders.py
 Placeholders are never a reference or starting point for real artwork. When real art lands as assets/card_<id>.webp
-it wins automatically (ui.js cardHTML); delete the placeholder and its line then."""
-import json, os, subprocess, textwrap
+it wins automatically (ui.js cardHTML); delete the placeholder and its line then.
+With card ids as arguments (python3 tools/make_placeholders.py worn_grip kindling ...) only those placeholders are
+(re)drawn and their rows replaced or appended; every other file and row is left exactly as it is."""
+import json, os, re, subprocess, sys, textwrap
 from PIL import Image, ImageDraw, ImageFont
 
 ROOT = os.path.dirname(os.path.dirname(os.path.abspath(__file__)))
@@ -18,7 +20,9 @@ FONT = '/usr/share/fonts/truetype/dejavu/DejaVuSerif-Bold.ttf'
 FOR = {'attack': 'attack card', 'skill': 'skill card', 'power': 'power card', 'status': 'card'}
 os.makedirs(OUT, exist_ok=True)
 rows = []
+ONLY = set(sys.argv[1:])
 for c in cards:
+    if ONLY and c['id'] not in ONLY: continue
     if os.path.exists(os.path.join(ROOT, 'assets', 'card_' + c['art'] + '.webp')): continue
     W, H = 600, 800
     im = Image.new('RGB', (W, H), COL.get(c['frame'], (90, 90, 90)))
@@ -39,5 +43,13 @@ md = ["# Placeholder card art", "",
       "Palette: never use these as a reference or starting point for any artwork.",
       "To swap one out: add the real `assets/card_<card id>.webp` (it wins automatically), then delete the placeholder and its row.", "",
       "| File | Card id | What it is for |", "|---|---|---|"] + rows + [""]
+if ONLY:   # keep the existing file; replace the rows of the redrawn cards, append new ones
+    old = open(os.path.join(OUT, 'PLACEHOLDERS.md')).read().rstrip('\n').split('\n')
+    new = {re.search(r'`placeholder_(.+?)\.webp`', r).group(1): r for r in rows}
+    out = []
+    for ln in old:
+        m = re.match(r'\| `placeholder_(.+?)\.webp`', ln)
+        out.append(new.pop(m.group(1)) if m and m.group(1) in new else ln)
+    md = out + list(new.values()) + ['']
 open(os.path.join(OUT, 'PLACEHOLDERS.md'), 'w').write('\n'.join(md))
 print('\n'.join(rows))

diff --git a/assets/placeholder/PLACEHOLDERS.md b/assets/placeholder/PLACEHOLDERS.md
@@ -10,10 +10,17 @@ To swap one out: add the real `assets/card_<card id>.webp` (it wins automaticall
 | `placeholder_headbutt.webp` | `headbutt` | Headbutt: barbarian common attack card illustration (attack frame) |
 | `placeholder_wild_swing.webp` | `wild_swing` | Wild Swing: barbarian common attack card illustration (attack frame) |
 | `placeholder_goad.webp` | `goad` | Goad: barbarian uncommon attack card illustration (attack frame) |
-| `placeholder_bloodied_knuckles.webp` | `bloodied_knuckles` | Bloodied Knuckles: barbarian uncommon attack card illustration (attack frame) |
+| `placeholder_bloodied_knuckles.webp` | `bloodied_knuckles` | Split Knuckles: barbarian uncommon attack card illustration (attack frame) |
 | `placeholder_blood_up.webp` | `blood_up` | Blood Up: barbarian rare power card illustration (buff frame) |
 | `placeholder_enraged.webp` | `enraged` | Enraged: barbarian legendary attack card illustration (attack frame) |
 | `placeholder_last_tally.webp` | `last_tally` | The Last Tally: barbarian legendary power card illustration (buff frame) |
 | `placeholder_scar_tissue.webp` | `scar_tissue` | Scar Tissue: barbarian rare power card illustration (defense frame) |
 | `placeholder_bear_beneath.webp` | `bear_beneath` | The Bear Beneath: barbarian legendary power card illustration (defense frame) |
 | `placeholder_acid.webp` | `acid` | Acid: curse status card illustration (status frame) |
+| `placeholder_burn_through.webp` | `burn_through` | Burn Through: barbarian common skill card illustration (defense frame) |
+| `placeholder_kindling.webp` | `kindling` | Kindling: barbarian uncommon power card illustration (buff frame) |
+| `placeholder_whats_left.webp` | `whats_left` | What's Left: barbarian uncommon attack card illustration (attack frame) |
+| `placeholder_worn_grip.webp` | `worn_grip` | Worn Grip: barbarian common attack card illustration (attack frame) |
+| `placeholder_ember_hide.webp` | `ember_hide` | Ember Hide: barbarian common skill card illustration (defense frame) |
+| `placeholder_blood_in_mouth.webp` | `blood_in_mouth` | Blood in the Mouth: barbarian common attack card illustration (attack frame) |
+| `placeholder_last_one_standing.webp` | `last_one_standing` | Last One Standing: barbarian uncommon skill card illustration (buff frame) |
